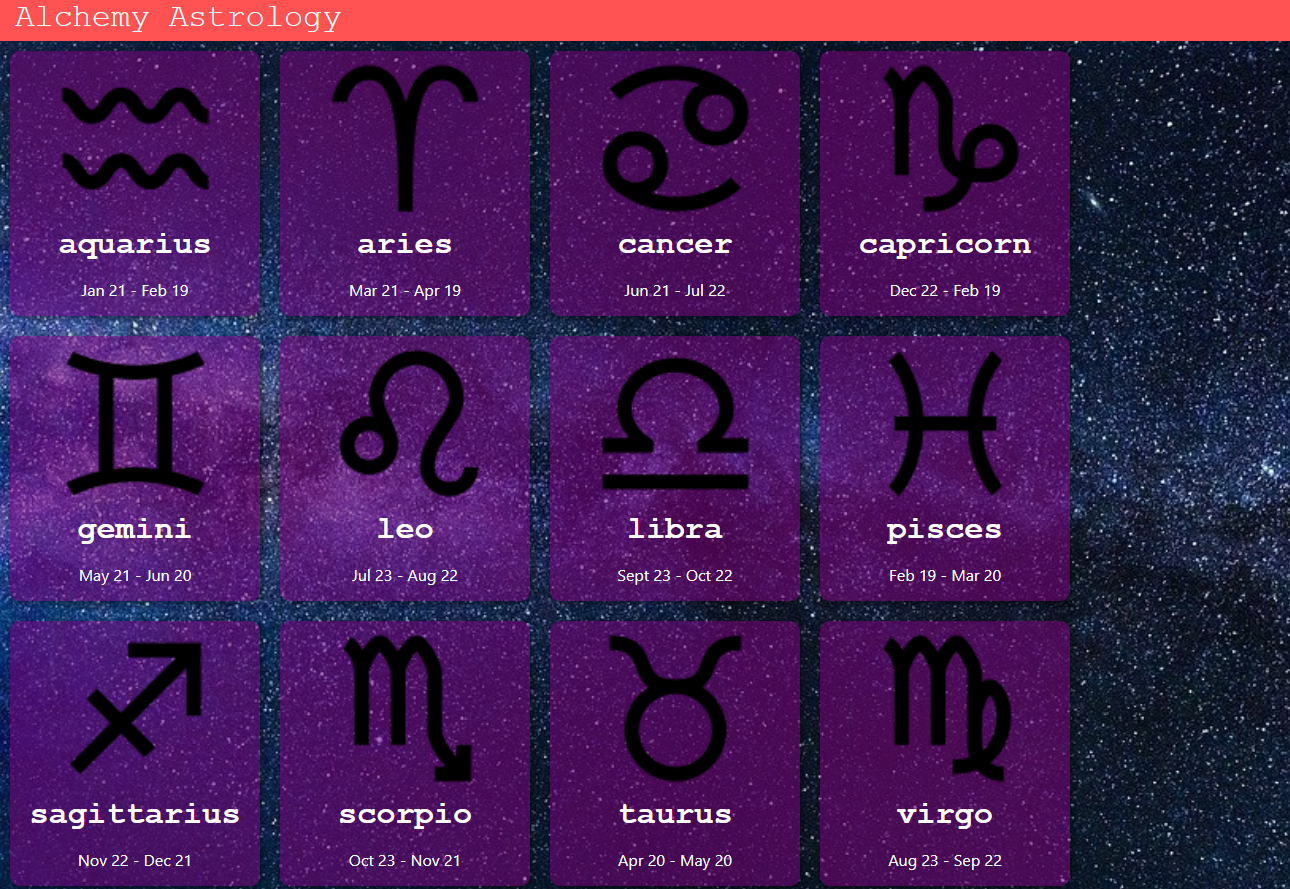
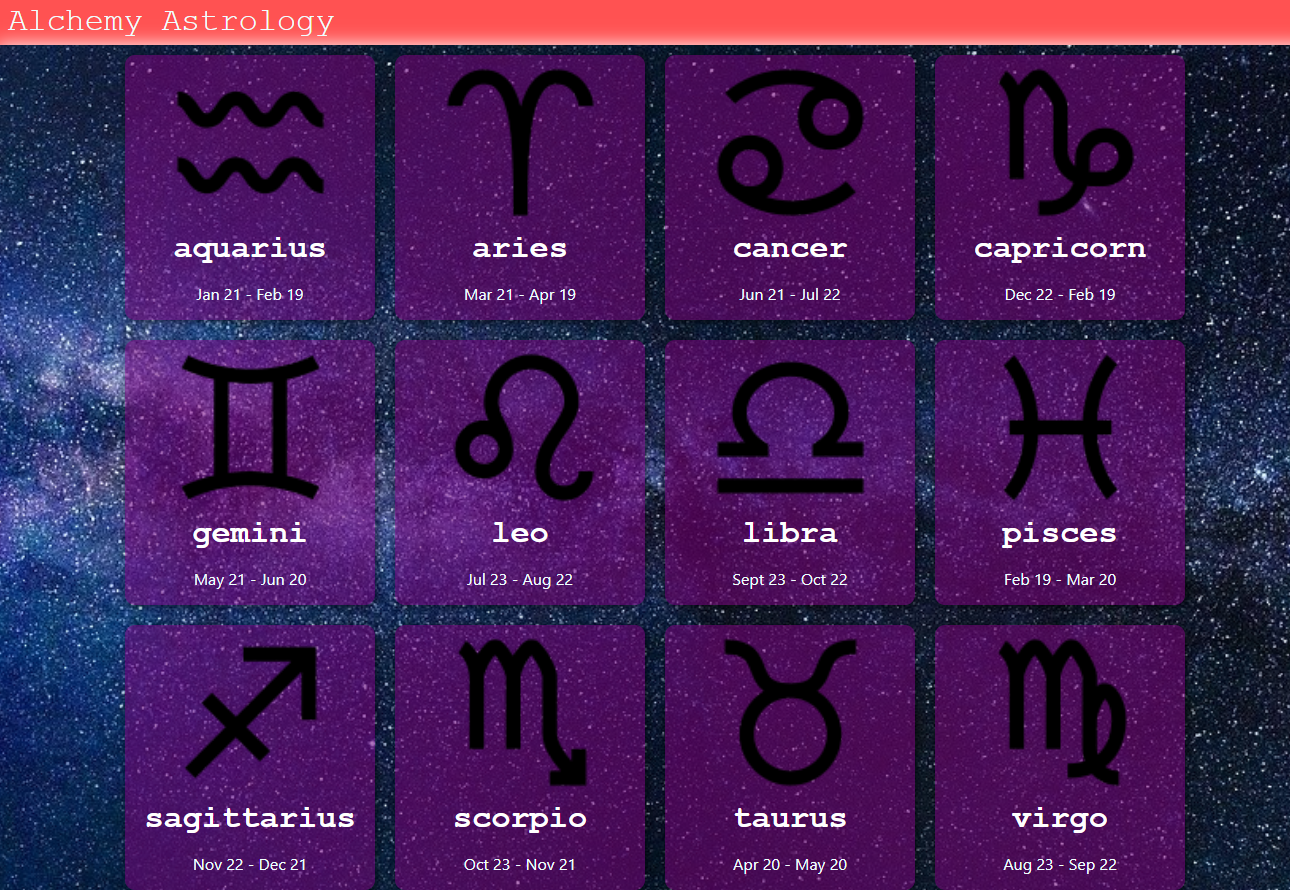
add text and home page elements

diff --git a/src/components/ParticleAlt.jsx b/src/components/ParticleAlt.jsx
@@ -1,0 +1,98 @@
+import { Particles } from 'react-tsparticles';
+import { loadFull } from 'tsparticles';
+
+function ParticleAlt() {
+  const particlesInit = async (main) => {
+    await loadFull(main);
+    // eslint-disable-next-line no-console
+    console.log(main);
+  };
+  const particlesLoaded = (container) => {
+    // eslint-disable-next-line no-console
+    console.log(container);
+  };
+  return (
+    <Particles
+      id="tsparticles"
+      init={particlesInit}
+      loaded={particlesLoaded}
+      options={{
+        fpsLimit: 60,
+        smooth: true,
+        background: '#00002f',
+        // Interactivity
+        interactivity: {
+          // events
+          events: {
+            onClick: {
+              enable: true,
+              mode: 'push',
+            },
+            onHover: {
+              enable: true,
+              mode: 'repulse',
+            },
+            resize: true,
+          },
+          // modes
+          modes: {
+            push: {
+              quantity: 8,
+            },
+            repulse: {
+              distance: 110,
+              duration: 1.5,
+            },
+          },
+        },
+        // Particles
+        particles: {
+          bounce: false,
+          color: {
+            value: '#cc0877',
+            size: 1,
+          },
+          links: {
+            color: '#123495',
+            distance: 175,
+            enable: true,
+            opacity: 0.3,
+            width: 1,
+          },
+          collisions: {
+            enable: false,
+          },
+          move: {
+            directions: 'none',
+            enable: true,
+            outModes: {
+              default: 'bounce',
+            },
+            random: true,
+            speed: 2,
+            straight: false,
+          },
+          number: {
+            density: {
+              enable: true,
+              area: 800,
+            },
+            value: 85,
+          },
+          opacity: {
+            value: 0.1,
+          },
+          shape: {
+            type: 'triangle',
+          },
+          size: {
+            value: { min: 0.5, max: 3 },
+          },
+        },
+        detectRetina: true,
+      }}
+    />
+  );
+}
+
+export default ParticleAlt;

diff --git a/src/Main/Main.css b/src/Main/Main.css
@@ -15,10 +15,6 @@
   height: 100vh;
   width: 100vw;
   display: flex;
-  /* display: grid;
-  grid-template-columns: repeat(4, 1fr);
-  grid-template-rows: repeat(4, 1fr);
-  grid-gap: 10px; */
   border-radius: 10px;
   z-index: 1;
 
@@ -27,30 +23,20 @@
 }
 
 .projects-wrap {
-  /* height: auto;
-  width: auto; */
-  /* display: grid;
-  grid-template-columns: 1fr 1fr;
-  grid-template-rows: repeat(8, 1fr);
-  grid-gap: 20px; */
   display: flex;
   align-items: center;
   justify-content: center;
   flex-direction: row;
   flex-wrap: wrap;
-  /* margin: 80px; */
 }
 
 .project-box {
   height: auto;
-  /* width: 500px; */
-  /* background-color: aqua; */
   margin: 0 20px;
   padding: 0 20px;
 }
 
 .projects {
-  /* width: 400px; */
   display: flex;
   align-items: center;
   justify-content: center;
@@ -59,8 +45,8 @@
 }
 
 .project-title {
-  width: auto;
-  font-size: 6rem;
+  width: 600px;
+  font-size: 4rem;
   font-family: 'Silkscreen';
   color: white;
   text-align: center;
@@ -68,9 +54,7 @@
   margin-top: 50px;
   overflow: hidden;
   white-space: nowrap;
-  border-right: 0.15em solid orange;
-  /* letter-spacing: 0.15em; */
-  animation: typing 3.5s steps(40, end), blink-caret 0.75s step-end infinite;
+  animation: typing 2s steps(25);
 }
 
 @keyframes typing {
@@ -81,17 +65,3 @@
     width: 100%;
   }
 }
-
-@keyframes blink-caret {
-  from,
-  to {
-    border-color: transparent;
-  }
-  40% {
-    border-color: orange;
-  }
-}
-/* 
-a man with dark hair sitting on the moon with a laptop in his lap and a cat on his shoulder
-
-a cyberpunk cat with a laptop writing code that digitally renders the environment around him */

diff --git a/src/components/Home.jsx b/src/components/Home.jsx
@@ -1,0 +1,38 @@
+import React from 'react';
+import './Home.css';
+import Particle from './Particle';
+import ParticleAlt from './ParticleAlt';
+
+function Home() {
+  return (
+    <>
+      <ParticleAlt />
+      <div className="home">
+        <div className="front left">
+          <img className="portrait" src="../previews/ai-render-self-neoclassical.png" />
+          <p className="mj-text">
+            self-portrait generated with{' '}
+            <a className="mj-link" href="https://www.midjourney.com/">
+              Midjourney AI
+            </a>
+            <p className="mustache">(mustache not to scale)</p>
+          </p>
+        </div>
+        <div className="front right">
+          <div className="home-text">
+            <h1 className="hi">hi.</h1>
+            <h2 className="ryan">i&apos;m ryan.</h2>
+            <h3 className="dev">i&apos;m a software developer.</h3>
+          </div>
+          <div className="links">
+            <div className=""></div>
+          </div>
+        </div>
+      </div>
+    </>
+  );
+}
+
+export default Home;
+
+// <FontAwesomeIcon icon="fa-solid fa-person" />;

diff --git a/src/components/Home.css b/src/components/Home.css
@@ -1,0 +1,73 @@
+.home {
+  box-sizing: border-box;
+  margin: 0;
+  padding: 0;
+  display: grid;
+  grid-template-columns: 1fr 1fr;
+  grid-template-areas: 'portrait text';
+  z-index: 4;
+}
+
+.front-left {
+  grid-area: portrait;
+}
+
+.front-right {
+  grid-area: text;
+}
+
+.portrait {
+  margin: 0 auto;
+  opacity: 0.9;
+  z-index: 2;
+  border-radius: 35%;
+  border: 5px solid rgba(255, 196, 0, 0.829);
+  box-shadow: 5px 5px 18px -4px rgba(0, 0, 0, 0.9);
+}
+
+.home-text {
+  margin: 0 auto;
+  margin-left: 10px;
+}
+
+.hi {
+  margin-left: 10px;
+}
+
+.ryan {
+  margin-left: 20px;
+}
+
+.dev {
+  margin-left: 30px;
+}
+
+.mj-text {
+  color: rgb(150, 150, 150);
+  text-align: center;
+  margin: 0 10px;
+  padding: 0 5px;
+  font-size: 0.7rem;
+}
+
+a,
+a:active,
+a:visited {
+  text-decoration: none;
+}
+
+a:hover {
+  text-decoration: none;
+  box-shadow: 0px 0px 20px -2px rgba(233, 146, 33, 0.9);
+  color: white;
+  background-color: rgba(233, 146, 33, 0.6);
+}
+
+.mj-link {
+  color: gold;
+  font-family: 'Inconsolata';
+}
+
+.mustache {
+  margin: 0 auto;
+}

diff --git a/src/Main/Main.jsx b/src/Main/Main.jsx
@@ -1,24 +1,21 @@
 import React from 'react';
 import './Main.css';
 import { Portfolio } from '../components/Portfolio';
-import { Route, Switch } from 'react-router-dom';
 import Header from '../Header/Header';
+import ParticleAlt from '../components/ParticleAlt';
 
 function Main() {
   return (
     <>
       <Header />
+      <ParticleAlt />
       <div className="main">
-        <Switch>
-          <Route to="/portfolio">
-            <div className="project-box">
-              <h2 className="project-title">projects:</h2>
-              <div className="projects-wrap">
-                <Portfolio />
-              </div>
-            </div>
-          </Route>
-        </Switch>
+        <div className="project-box">
+          <h2 className="project-title">projects:</h2>
+          <div className="projects-wrap">
+            <Portfolio />
+          </div>
+        </div>
       </div>
     </>
   );

diff --git a/src/App.js b/src/App.js
@@ -1,6 +1,6 @@
 import { Route, Switch } from 'react-router-dom';
-import Particles from 'react-tsparticles';
 import './App.css';
+import Home from './components/Home';
 import Particle from './components/Particle';
 
 import Main from './Main/Main';
@@ -8,13 +8,16 @@ import Main from './Main/Main';
 function App() {
   return (
     <div className="App">
-      <Main />
-      <Particle />
+      {/* <Particle /> */}
       <Switch>
-        <Route to="/portfolio"></Route>
+        <Route to="*">
+          <Home />
+        </Route>
+        <Route to="/portfolio">
+          <Main />
+        </Route>
         <Route to="/about"></Route>
         <Route to="/links"></Route>
-        {/* <Route to="*">{Main}</Route> */}
       </Switch>
     </div>
   );

diff --git a/src/components/Projects.jsx b/src/components/Projects.jsx
@@ -18,7 +18,7 @@ export const Projects = [
     name: 'devPal',
     image: 'devPal',
     description:
-      'message-board app built with React router and Supabase that allows authenticated users to add posts',
+      'message-board app built with a team of 3 using React router and Supabase that allows authenticated users to add posts',
   },
   {
     id: 3,

diff --git a/src/components/Portfolio.jsx b/src/components/Portfolio.jsx
@@ -7,7 +7,6 @@ export const Portfolio = () => {
     return (
       <div key={project.id} className="card">
         <p className="name">{project.name}</p>
-        {/* {images} */}
         <img src={`../previews/${project.image}.png`} className="proj-img" />
         <p className="desc">{project.description}</p>
       </div>

diff --git a/src/App.css b/src/App.css
@@ -1,3 +1,5 @@
+@import url('https://fonts.googleapis.com/css2?family=Gemunu+Libre&family=Inconsolata&family=Kanit&family=Silkscreen&display=swap');
+
 .App {
   min-height: 100vh;
   min-width: 100vw;
